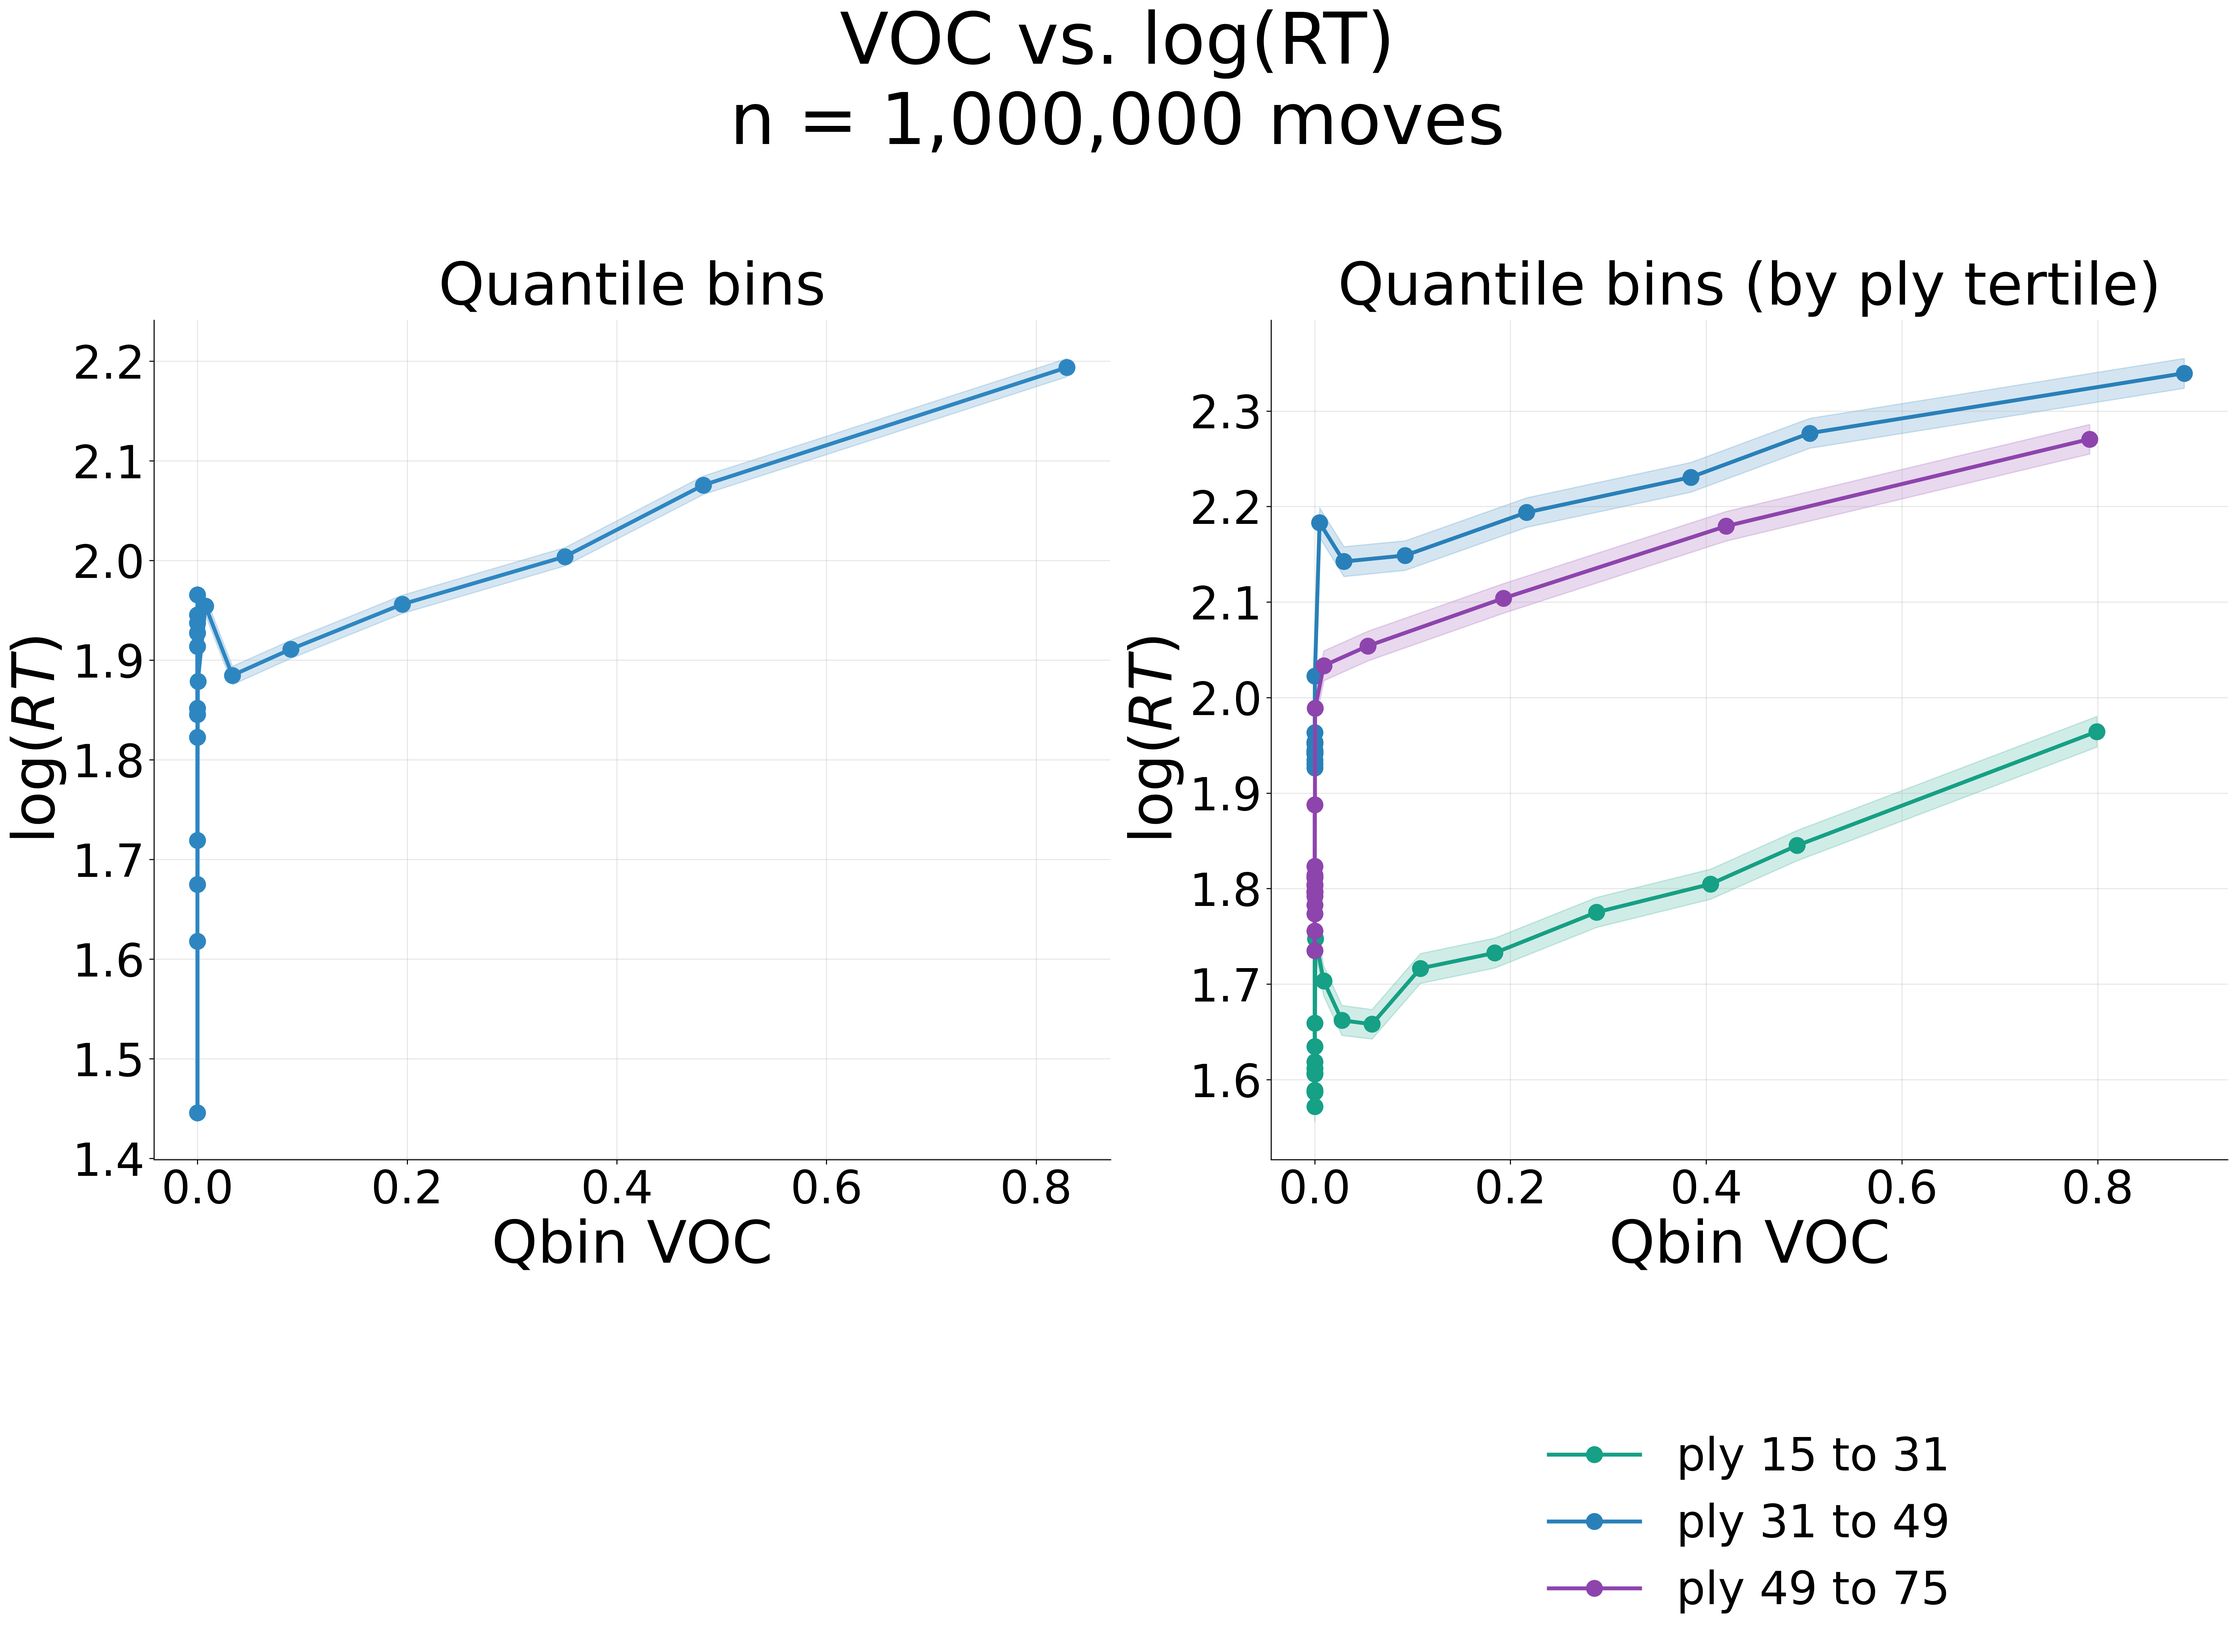
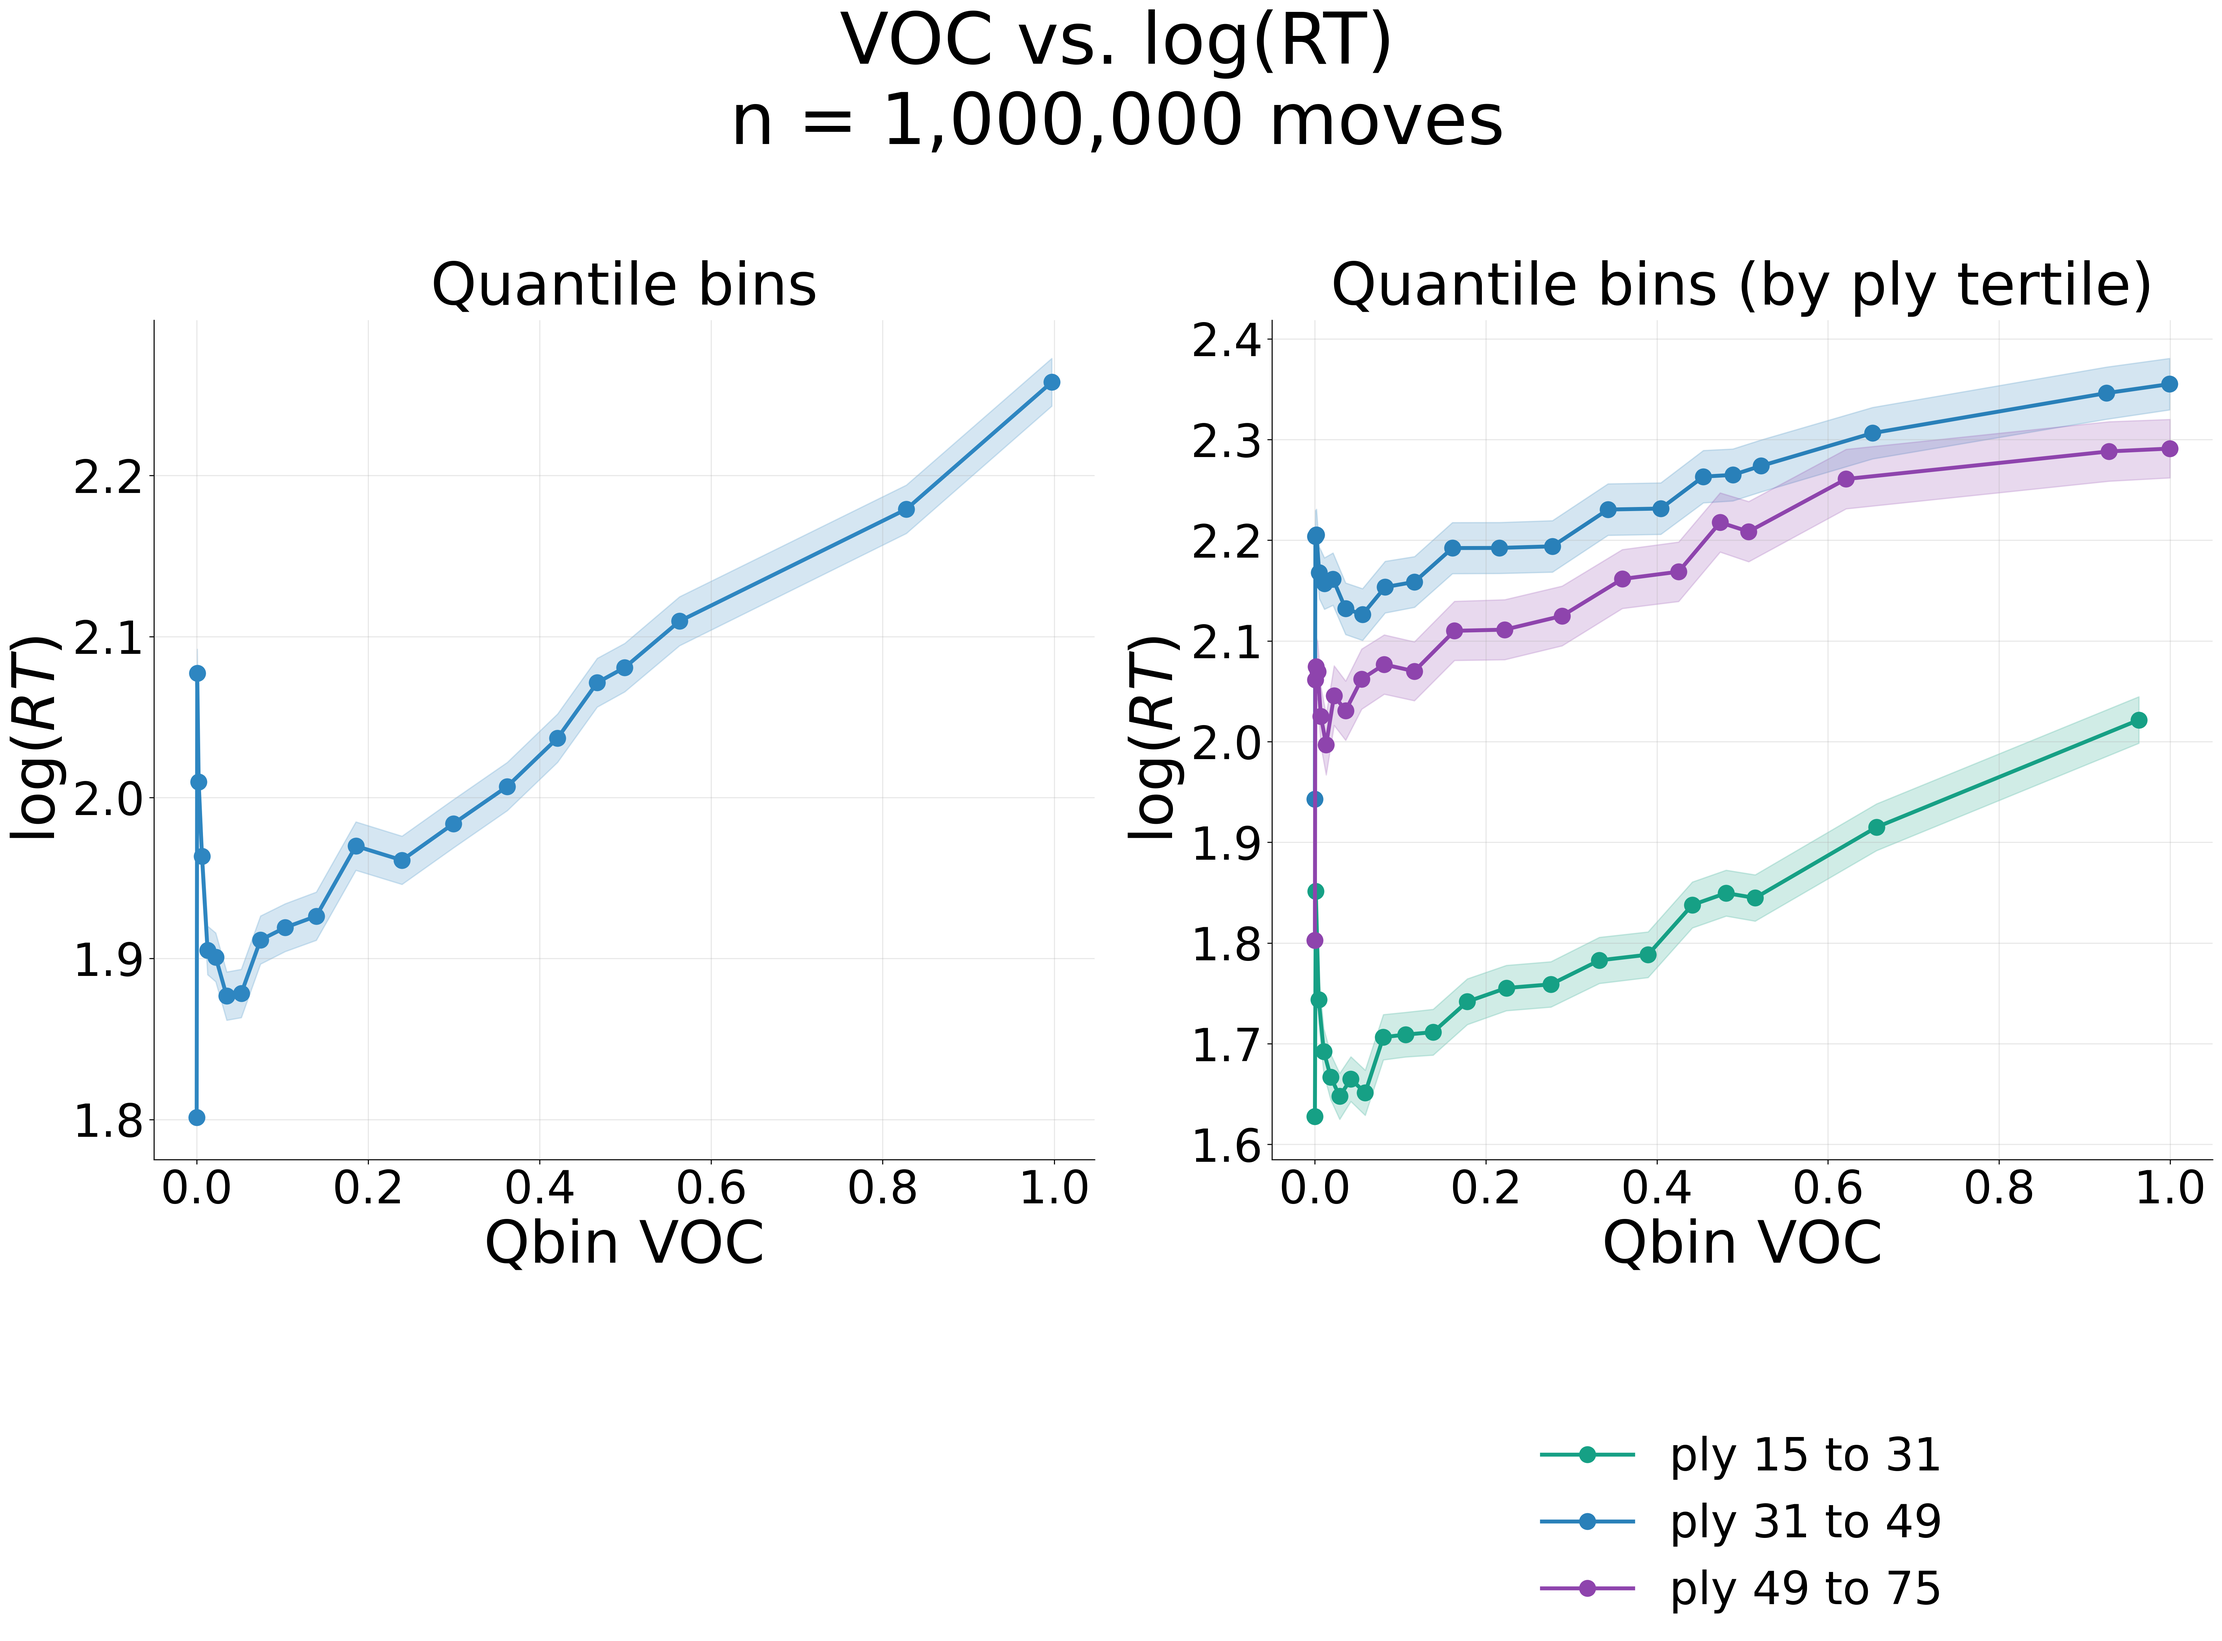
human_analytics: zero-inflated quantile binning for VOC dashboard
VOC is ~⅔ exactly 0, so plain ntile wasted most bins on the zero mass and
hid the relationship. Added an Analyzer(zero_inflated=True) option that renders
x==0 as a single leftmost point and ntiles only the nonzero rows (global +
per-ply-tertile). Enabled it for voc_vs_movetime; the positive VOC↔log(RT)
trend is now visible in every phase. Regenerated the VOC dashboard.

diff --git a/human_analytics/utils/analysis.py b/human_analytics/utils/analysis.py
@@ -86,6 +86,7 @@ class Analyzer:
         title=None,
         quantile_heatmap_row: str | None = None,
         quantile_heatmap_row_label: str | None = None,
+        zero_inflated: bool = False,
     ):
         self.conn = db_conn
         self.table = table_name
@@ -94,6 +95,11 @@ class Analyzer:
         self.n_bins = n_bins
         self.filter_query = filter_query
         self.title = title or f"{self.x.label} vs {self.y.label}"
+        # When the x distribution has a large point mass at 0 (e.g. VOC: ~⅔ of
+        # moves are exactly 0), plain ``ntile`` wastes most bins on that mass.
+        # ``zero_inflated`` instead renders x==0 as a single leftmost point and
+        # quantile-bins only the nonzero rows.
+        self.zero_inflated = zero_inflated
 
         self.quantile_heatmap_row = None
         self._quantile_heatmap_row_label = ""
@@ -151,39 +157,53 @@ class Analyzer:
             ORDER BY tertile_id
         """).df()
 
-        # 3. Compute Quantile-Binned Data (global ranks)
+        # 3. Compute Quantile-Binned Data (global ranks). With ``zero_inflated``,
+        # the x==0 point mass collapses to a single leftmost bin and only the
+        # nonzero rows are ntiled (avoids wasting bins on the zero mass).
+        col = self.x.column
+        if self.zero_inflated:
+            global_inner = f"""
+                SELECT {col}, _y_transformed, 0 AS qbin
+                FROM _analyzer_view WHERE {col} = 0
+                UNION ALL
+                SELECT {col}, _y_transformed,
+                       ntile({self.n_bins}) OVER (ORDER BY {col}) AS qbin
+                FROM _analyzer_view WHERE {col} <> 0
+            """
+        else:
+            global_inner = f"SELECT *, ntile({self.n_bins}) OVER (ORDER BY {col}) AS qbin FROM _analyzer_view"
         self.quantile_df = self.conn.execute(f"""
-            SELECT
-                qbin,
-                avg({self.x.column}) as mean_x,
-                avg(_y_transformed) as mean_y,
-                stddev(_y_transformed) as std_y,
-                count(*) as n
-            FROM (
-                SELECT *, ntile({self.n_bins}) over (order by {self.x.column}) as qbin
-                FROM _analyzer_view
-            )
+            SELECT qbin,
+                   avg({col}) as mean_x,
+                   avg(_y_transformed) as mean_y,
+                   stddev(_y_transformed) as std_y,
+                   count(*) as n
+            FROM ({global_inner})
             GROUP BY qbin
         """).df()
 
-        self.quantile_tertile_df = self.conn.execute(f"""
-            SELECT
-                tertile_id,
-                qbin,
-                avg({self.x.column}) as mean_x,
-                avg(_y_transformed) as mean_y,
-                stddev(_y_transformed) as std_y,
-                count(*) as n
-            FROM (
-                SELECT
-                    ply_tertiles as tertile_id,
-                    {self.x.column},
-                    _y_transformed,
-                    ntile({self.n_bins}) OVER (
-                        PARTITION BY ply_tertiles ORDER BY {self.x.column}
-                    ) as qbin
+        if self.zero_inflated:
+            tertile_inner = f"""
+                SELECT ply_tertiles as tertile_id, {col}, _y_transformed, 0 AS qbin
+                FROM _analyzer_view WHERE {col} = 0
+                UNION ALL
+                SELECT ply_tertiles as tertile_id, {col}, _y_transformed,
+                       ntile({self.n_bins}) OVER (PARTITION BY ply_tertiles ORDER BY {col}) AS qbin
+                FROM _analyzer_view WHERE {col} <> 0
+            """
+        else:
+            tertile_inner = f"""
+                SELECT ply_tertiles as tertile_id, {col}, _y_transformed,
+                       ntile({self.n_bins}) OVER (PARTITION BY ply_tertiles ORDER BY {col}) AS qbin
                 FROM _analyzer_view
-            )
+            """
+        self.quantile_tertile_df = self.conn.execute(f"""
+            SELECT tertile_id, qbin,
+                   avg({col}) as mean_x,
+                   avg(_y_transformed) as mean_y,
+                   stddev(_y_transformed) as std_y,
+                   count(*) as n
+            FROM ({tertile_inner})
             GROUP BY tertile_id, qbin
             ORDER BY tertile_id, qbin
         """).df()

diff --git a/human_analytics/voc_mq_analysis.py b/human_analytics/voc_mq_analysis.py
@@ -118,6 +118,7 @@ def plot_voc_vs_movetime(conn: duckdb.DuckDBPyConnection, output_path: str) -> N
         y_var=Variable(column="move_time", is_log=True, name="RT"),
         filter_query="move_time > 0",
         title="VOC vs. log(RT)",
+        zero_inflated=True,  # ~⅔ of moves have VOC==0; show it as one point, bin the rest
     )
     analyzer.save_dashboard(output_path)
 
